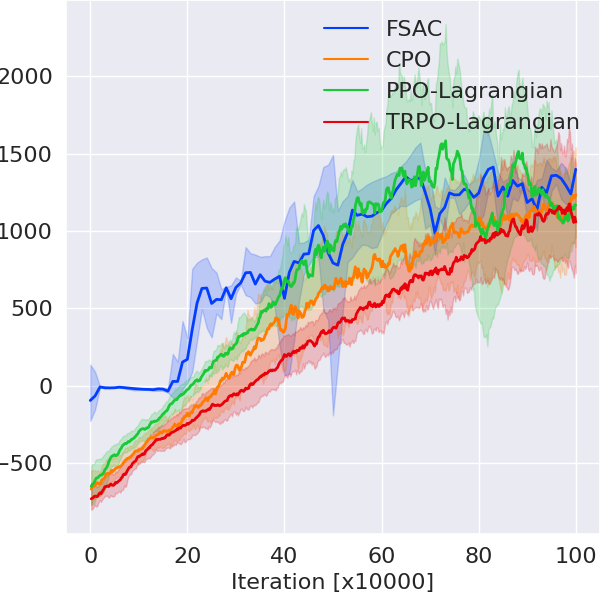
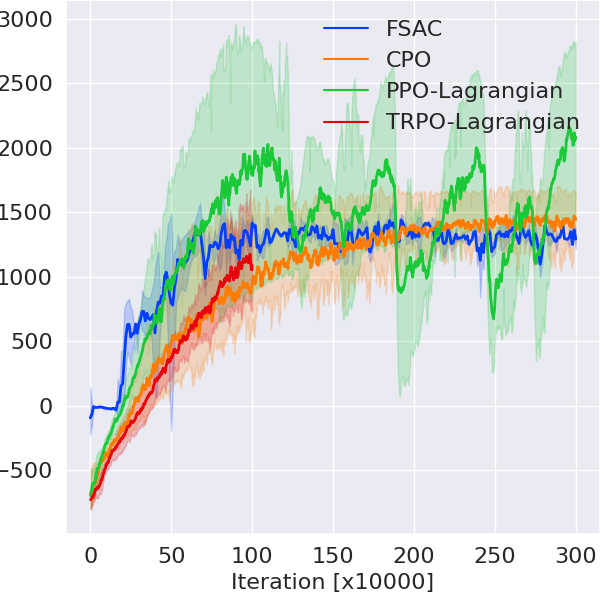
debug start ascent

diff --git a/data_process/lineplot_mujoco.py b/data_process/lineplot_mujoco.py
@@ -20,47 +20,9 @@ DIV_LINE_WIDTH = 50
 txt_store_alg_list = ['CPO', 'PPO-Lagrangian', 'TRPO-Lagrangian']
 base_dict = dict(HalfCheetah=150)
 
-def load_from_event():
-    tag2plot = ['episode_return']
-    eval_summarys = tf.data.TFRecordDataset(['/home/mahaitong/PycharmProjects/mpg/results/FSAC/CarButton1-2021-04-20-14-40-50/logs/evaluator/events.out.tfevents.1618900860.mahaitong-virtual-machine.33389.1126.v2'])
-    data_in_one_run_of_one_alg = {key: [] for key in tag2plot}
-    data_in_one_run_of_one_alg.update({'iteration': []})
-    for eval_summary in eval_summarys:
-        event = event_pb2.Event.FromString(eval_summary.numpy())
-        for v in event.summary.value:
-            t = tf.make_ndarray(v.tensor)
-            for tag in tag2plot:
-                if tag == v.tag[11:]:
-                    data_in_one_run_of_one_alg[tag].append(
-                        (1 - SMOOTHFACTOR) * data_in_one_run_of_one_alg[tag][-1] + SMOOTHFACTOR * float(t)
-                        if data_in_one_run_of_one_alg[tag] else float(t))
-                    data_in_one_run_of_one_alg['iteration'].append(int(event.step))
-    a = 1
-
-def load_from_tf1_event(eval_dir, tag2plot):
-    from tensorboard.backend.event_processing import event_accumulator
-
-    tag2plot = []
-    ea = event_accumulator.EventAccumulator('/home/mahaitong/PycharmProjects/mpg/results/FSAC/tf1_test/fsac')
-    ea.Reload()
-    tag2plot += ea.scalars.Keys()
-    data_in_one_run_of_one_alg = {key: [] for key in tag2plot}
-    data_in_one_run_of_one_alg.update({'iteration': []})
-    valid_tag_list = [i for i in tag2plot if i in ea.scalars.Keys()]
-    for tag in valid_tag_list:
-        events = ea.scalars.Items(tag)
-        for idx, event in enumerate(events):
-            t = event.value
-            data_in_one_run_of_one_alg[tag].append(
-                (1 - SMOOTHFACTOR) * data_in_one_run_of_one_alg[tag][-1] + SMOOTHFACTOR * float(t)
-                if data_in_one_run_of_one_alg[tag] else float(t))
-            if tag == valid_tag_list[0]:
-                data_in_one_run_of_one_alg['iteration'].append(int(event.step))
-
-    return data_in_one_run_of_one_alg
 
 def help_func():
-    tag2plot = ['episode_cost']
+    tag2plot = ['episode_return']
     alg_list = ['FSAC','CPO','PPO-Lagrangian','TRPO-Lagrangian'] # 'FSAC', 'CPO', 'SAC','SAC-Lagrangian',
     lbs = ['FSAC','CPO','PPO-Lagrangian','TRPO-Lagrangian'] # 'FSAC', 'CPO', 'SAC','SAC-Lagrangian',
     task = ['HalfCheetah']
@@ -102,8 +64,8 @@ def plot_eval_results_of_all_alg_n_runs(dirs_dict_for_plot=None):
                             event = event_pb2.Event.FromString(eval_summary.numpy())
                             if dir.startswith('conti150'):
                                 step = int(event.step + 1500000)
-                            # elif dir.startswith('conti'):
-                            #     step = int(event.step + 1000000)
+                            elif dir.startswith('conti100'):
+                                step = int(event.step + 1000000)
                             elif dir.startswith('conti40'):
                                 step = int(event.step + 400000)
                             elif dir.startswith('short'):
@@ -119,7 +81,6 @@ def plot_eval_results_of_all_alg_n_runs(dirs_dict_for_plot=None):
                                     t = tf.make_ndarray(v.tensor)
                                     for tag in tag2plot:
                                         if dir.startswith('velo') and tag == 'episode_cost' and v.tag[11:]=='episode_velo_mean':
-                                            print(t)
                                             data_in_one_run_of_one_alg[tag].append(
                                                 (1 - SMOOTHFACTOR) * data_in_one_run_of_one_alg[tag][
                                                     -1] + SMOOTHFACTOR * float(t) / 1.69 * 149.0
@@ -135,7 +96,6 @@ def plot_eval_results_of_all_alg_n_runs(dirs_dict_for_plot=None):
                                             data_in_one_run_of_one_alg['iteration'].append(int(step))
                         len1, len2 = len(data_in_one_run_of_one_alg['iteration']), len(data_in_one_run_of_one_alg[tag2plot[0]])
                         period = int(len1/len2)
-                        print(period)
                         data_in_one_run_of_one_alg['iteration'] = [data_in_one_run_of_one_alg['iteration'][i*period]/10000. for i in range(len2)]
 
                         data_in_one_run_of_one_alg.update(dict(algorithm=alg, num_run=num_run))
@@ -148,8 +108,8 @@ def plot_eval_results_of_all_alg_n_runs(dirs_dict_for_plot=None):
                             df_in_one_run_of_one_alg[tag] = smoothed_x
                     df_list.append(df_in_one_run_of_one_alg)
                     lendf = len(df_in_one_run_of_one_alg[tag2plot[0]])
-                    if not dir.startswith('init'):
-                        final_results[alg].append(df_in_one_run_of_one_alg[tag2plot[0]][lendf-1]) # TODO: consider conti if exists
+                    if not (dir.startswith('init40') or dir.startswith('velo') or dir.startswith('conti40')):
+                        final_results[alg]+= list(df_in_one_run_of_one_alg[tag2plot[0]][lendf-21: lendf-1]) # TODO: consider conti if exists
         dump_results(final_results)
         total_dataframe = df_list[0].append(df_list[1:], ignore_index=True) if len(df_list) > 1 else df_list[0]
         figsize = (6,6)
@@ -164,7 +124,7 @@ def plot_eval_results_of_all_alg_n_runs(dirs_dict_for_plot=None):
         handles, labels = ax1.get_legend_handles_labels()
         labels = lbs
         if tag == 'episode_cost':
-            basescore = sns.lineplot(x=[0., 100.], y=[base, base], linewidth=2, color='black', linestyle='--')
+            basescore = sns.lineplot(x=[0., 300.], y=[base, base], linewidth=2, color='black', linestyle='--')
             ax1.legend(handles=handles + [basescore.lines[-1]], labels=labels + ['Constraint'], loc='upper right',
                        frameon=False, fontsize=fontsize)
         else:

diff --git a/train_script4fsac_conti.py b/train_script4fsac_conti.py
@@ -121,9 +121,9 @@ def built_FSAC_parser():
     parser.add_argument('--explore_sigma', type=float, default=None)
 
     # buffer
-    parser.add_argument('--max_buffer_size', type=int, default=50000)
+    parser.add_argument('--max_buffer_size', type=int, default=500000)
     parser.add_argument('--replay_starts', type=int, default=3000)
-    parser.add_argument('--replay_batch_size', type=int, default=2048)
+    parser.add_argument('--replay_batch_size', type=int, default=256)
     parser.add_argument('--replay_alpha', type=float, default=0.6)
     parser.add_argument('--replay_beta', type=float, default=0.4)
     parser.add_argument('--buffer_log_interval', type=int, default=40000)
@@ -143,14 +143,14 @@ def built_FSAC_parser():
     parser.add_argument('--value_num_hidden_layers', type=int, default=2)
     parser.add_argument('--value_num_hidden_units', type=int, default=256)
     parser.add_argument('--value_hidden_activation', type=str, default='elu')
-    parser.add_argument('--value_lr_schedule', type=list, default=[3e-6, 1000000, 1e-6])
-    parser.add_argument('--cost_value_lr_schedule', type=list, default=[3e-6, 1000000, 1e-6])
+    parser.add_argument('--value_lr_schedule', type=list, default=[1e-6, 1000000, 1e-6])
+    parser.add_argument('--cost_value_lr_schedule', type=list, default=[1e-6, 1000000, 1e-6])
     parser.add_argument('--policy_model_cls', type=str, default='MLP')
     parser.add_argument('--policy_num_hidden_layers', type=int, default=2)
     parser.add_argument('--policy_num_hidden_units', type=int, default=256)
     parser.add_argument('--policy_hidden_activation', type=str, default='elu')
     parser.add_argument('--policy_out_activation', type=str, default='linear')
-    parser.add_argument('--policy_lr_schedule', type=list, default=[3e-6, 500000, 1e-6])
+    parser.add_argument('--policy_lr_schedule', type=list, default=[1e-6, 500000, 1e-6])
     parser.add_argument('--lam_lr_schedule', type=list, default=[1e-6, 100000, 1e-6])
     parser.add_argument('--alpha', default='auto')  # 'auto' 0.02
     alpha = parser.parse_args().alpha
@@ -179,13 +179,13 @@ def built_FSAC_parser():
 
     # Optimizer (PABAL)
     parser.add_argument('--max_sampled_steps', type=int, default=0)
-    parser.add_argument('--max_iter', type=int, default=2000000)
+    parser.add_argument('--max_iter', type=int, default=600000)
     parser.add_argument('--num_workers', type=int, default=NUM_WORKER)
     parser.add_argument('--num_learners', type=int, default=NUM_LEARNER)
     parser.add_argument('--num_buffers', type=int, default=NUM_BUFFER)
     parser.add_argument('--max_weight_sync_delay', type=int, default=300)
     parser.add_argument('--grads_queue_size', type=int, default=25)
-    parser.add_argument('--grads_max_reuse', type=int, default=8)
+    parser.add_argument('--grads_max_reuse', type=int, default=2)
     parser.add_argument('--eval_interval', type=int, default=10000) # 1000
     parser.add_argument('--save_interval', type=int, default=200000) # 200000
     parser.add_argument('--log_interval', type=int, default=100) # 100
@@ -194,16 +194,16 @@ def built_FSAC_parser():
     time_now = datetime.datetime.now().strftime("%Y-%m-%d-%H-%M-%S")
     env_id = parser.parse_args().env_id
     task = env_id.split('-')[1][:-1] if env_id.startswith('Safexp') else env_id.split('-')[0]
-    results_dir = './results/FSAC/{task}/conti100{experiment}-{time}-s{seed}'.format(task=task,
+    results_dir = './results/FSAC/{task}/conti240{experiment}-{time}-s{seed}'.format(task=task,
                                                                       experiment=task,
                                                                       time=time_now,
                                                                       seed=parser.parse_args().random_seed)
     parser.add_argument('--result_dir', type=str, default=results_dir)
     parser.add_argument('--log_dir', type=str, default=results_dir + '/logs')
     parser.add_argument('--model_dir', type=str, default=results_dir + '/models')
-    parser.add_argument('--model_load_dir', type=str, default='./results/FSAC/HalfCheetah/data2plot/velov3-2021-05-10-17-02-05/models')
-    parser.add_argument('--model_load_ite', type=int, default=1000000)
-    parser.add_argument('--ppc_load_dir', type=str, default='./results/FSAC/HalfCheetah/data2plot/velov3-2021-05-10-17-02-05/models')
+    parser.add_argument('--model_load_dir', type=str, default='./results/FSAC/HalfCheetah/conti100HalfCheetah-2021-05-14-12-00-39-s3/models')
+    parser.add_argument('--model_load_ite', type=int, default=1400000)
+    parser.add_argument('--ppc_load_dir', type=str, default='./results/FSAC/HalfCheetah/conti100HalfCheetah-2021-05-14-12-00-39-s3/models')
 
     return parser.parse_args()
 

diff --git a/policy.py b/policy.py
@@ -410,14 +410,17 @@ class PolicyWithMu(tf.Module):
                     grads[2*q_weights_len:3*q_weights_len], \
                     grads[3 * q_weights_len:4 * q_weights_len], \
                     grads[4 * q_weights_len:4 * q_weights_len + policy_weights_len]
+                lam_grad = grads[
+                           4 * q_weights_len + policy_weights_len: 4 * q_weights_len + policy_weights_len + lam_weights_len]
                 self.Q1_optimizer.apply_gradients(zip(q1_grad, self.Q1.trainable_weights))
                 self.Q2_optimizer.apply_gradients(zip(q2_grad, self.Q2.trainable_weights))
-                self.QC1_optimizer.apply_gradients(zip(qc1_grad, self.QC1.trainable_weights))
+                # if ascent:
+                #     self.QC1_optimizer.apply_gradients(zip(qc1_grad, self.QC1.trainable_weights))
                 if self.double_QC:
                     self.QC2_optimizer.apply_gradients(zip(qc2_grad, self.QC2.trainable_weights))
-                if iteration % self.dual_ascent_interval == 0 and self.constrained and ascent:
-                    lam_grad = grads[4 * q_weights_len + policy_weights_len: 4 * q_weights_len + policy_weights_len + lam_weights_len]
-                    self.Lam_optimizer.apply_gradients(zip(lam_grad, self.Lam.trainable_weights))
+                # if iteration % self.dual_ascent_interval == 0 and self.constrained and ascent:
+                #
+                #     self.Lam_optimizer.apply_gradients(zip(lam_grad, self.Lam.trainable_weights))
                 if iteration % self.delay_update == 0:
                     self.policy_optimizer.apply_gradients(zip(policy_grad, self.policy.trainable_weights))
                     self.update_policy_target()
@@ -438,6 +441,26 @@ class PolicyWithMu(tf.Module):
                     if self.target:
                         self.update_policy_target()
                         self.update_Q1_target()
+        return qc1_grad, lam_grad
+
+    @tf.function
+    def apply_ascent_gradients(self, iteration, qc_grad, lam_grad):
+        assert self.double_Q
+        # q_weights_len = len(self.Q1.trainable_weights)
+        # policy_weights_len = len(self.policy.trainable_weights)
+        # lam_weights_len = len(self.Lam.trainable_weights)
+        # qc1_grad = grads[2 * q_weights_len:3 * q_weights_len]
+        # q1_grad, q2_grad, qc1_grad, qc2_grad, policy_grad = \
+        #     grads[:q_weights_len], \
+        #     grads[q_weights_len:2 * q_weights_len], \
+        #     grads[2 * q_weights_len:3 * q_weights_len], \
+        #     grads[3 * q_weights_len:4 * q_weights_len], \
+        #     grads[4 * q_weights_len:4 * q_weights_len + policy_weights_len]
+        self.QC1_optimizer.apply_gradients(zip(qc_grad, self.QC1.trainable_weights))
+        if iteration % self.dual_ascent_interval == 0 and self.constrained:
+            # lam_grad = grads[
+            #            4 * q_weights_len + policy_weights_len: 4 * q_weights_len + policy_weights_len + lam_weights_len]
+            self.Lam_optimizer.apply_gradients(zip(lam_grad, self.Lam.trainable_weights))
 
     def update_all_Q_target(self):
         self.update_Q1_target()

diff --git a/train_script4fsac.py b/train_script4fsac.py
@@ -123,7 +123,7 @@ def built_FSAC_parser():
     # buffer
     parser.add_argument('--max_buffer_size', type=int, default=500000)
     parser.add_argument('--replay_starts', type=int, default=3000)
-    parser.add_argument('--replay_batch_size', type=int, default=2048)
+    parser.add_argument('--replay_batch_size', type=int, default=256)
     parser.add_argument('--replay_alpha', type=float, default=0.6)
     parser.add_argument('--replay_beta', type=float, default=0.4)
     parser.add_argument('--buffer_log_interval', type=int, default=40000)
@@ -141,13 +141,13 @@ def built_FSAC_parser():
     parser.add_argument('--act_dim', type=int, default=None)
     parser.add_argument('--value_model_cls', type=str, default='MLP')
     parser.add_argument('--value_num_hidden_layers', type=int, default=2)
-    parser.add_argument('--value_num_hidden_units', type=int, default=256)
+    parser.add_argument('--value_num_hidden_units', type=int, default=64)
     parser.add_argument('--value_hidden_activation', type=str, default='elu')
     parser.add_argument('--value_lr_schedule', type=list, default=[8e-5, 1000000, 1e-6])
     parser.add_argument('--cost_value_lr_schedule', type=list, default=[8e-5, 1000000, 1e-6])
     parser.add_argument('--policy_model_cls', type=str, default='MLP')
     parser.add_argument('--policy_num_hidden_layers', type=int, default=2)
-    parser.add_argument('--policy_num_hidden_units', type=int, default=256)
+    parser.add_argument('--policy_num_hidden_units', type=int, default=64)
     parser.add_argument('--policy_hidden_activation', type=str, default='elu')
     parser.add_argument('--policy_out_activation', type=str, default='linear')
     parser.add_argument('--policy_lr_schedule', type=list, default=[3e-5, 500000, 1e-6])
@@ -179,7 +179,7 @@ def built_FSAC_parser():
 
     # Optimizer (PABAL)
     parser.add_argument('--max_sampled_steps', type=int, default=0)
-    parser.add_argument('--max_iter', type=int, default=3000000)
+    parser.add_argument('--max_iter', type=int, default=1000000)
     parser.add_argument('--num_workers', type=int, default=NUM_WORKER)
     parser.add_argument('--num_learners', type=int, default=NUM_LEARNER)
     parser.add_argument('--num_buffers', type=int, default=NUM_BUFFER)
@@ -514,7 +514,7 @@ def main(alg_name):
     args = built_parser(alg_name)
     logger.info('begin training agents with parameter {}'.format(str(args)))
     if args.mode == 'training':
-        ray.init(object_store_memory=32768*1024*1024)
+        ray.init(object_store_memory=8192*1024*1024)
         os.makedirs(args.result_dir)
         with open(args.result_dir + '/config.json', 'w', encoding='utf-8') as f:
             json.dump(vars(args), f, ensure_ascii=False, indent=4)

diff --git a/optimizer.py b/optimizer.py
@@ -86,16 +86,22 @@ class UpdateThread(threading.Thread):
                     self.grad, self.learner_stats = self.inqueue.get(timeout=30)
                     self.grad_reuse = 0
         # apply grad
+        print(self.iteration)
         with self.grad_apply_timer:
             # try:
             #     judge_is_nan(self.grad)
             # except ValueError:
             #     self.grad = [tf.zeros_like(grad) for grad in self.grad]
             #     logger.info('Grad is nan!, zero it')
+            # if self.ascent:
+
+            qc_grad, lam_grad = self.local_worker.apply_gradients(self.iteration, self.grad, ascent=True)
             if self.ascent:
-                self.local_worker.apply_gradients(self.iteration, self.grad, ascent=True)
-            else:
-                self.local_worker.apply_gradients(self.iteration, self.grad, ascent=False)
+                print('apply ascent cstr')
+                self.local_worker.apply_ascent_gradients(self.iteration, qc_grad, lam_grad)
+            # else:
+            #     print('apply uncstr')
+            #     self.local_worker.apply_gradients(self.iteration, self.grad, ascent=False)
 
         # log
         if self.iteration % self.args.log_interval == 0:

diff --git a/worker.py b/worker.py
@@ -85,7 +85,12 @@ class OffPolicyWorkerWithCost(object):
 
     def apply_gradients(self, iteration, grads, ascent):
         self.iteration = iteration
-        self.policy_with_value.apply_gradients(self.tf.constant(iteration, dtype=self.tf.int32), grads, ascent=ascent)
+        qc_grad, lam_grad = self.policy_with_value.apply_gradients(self.tf.constant(iteration, dtype=self.tf.int32), grads, ascent=ascent)
+        return qc_grad, lam_grad
+
+    def apply_ascent_gradients(self, iteration, qc_grad, lam_grad):
+        self.iteration = iteration
+        self.policy_with_value.apply_ascent_gradients(self.tf.constant(iteration, dtype=self.tf.int32), qc_grad, lam_grad)
 
     def get_ppc_params(self):
         return self.preprocessor.get_params()
